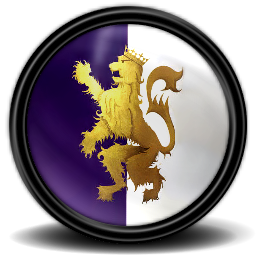
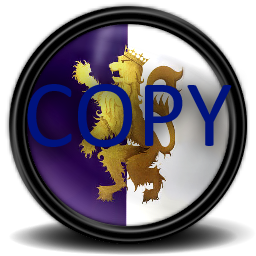
Dev-phase

Changed region(s): [[0.2812, 0.2812, 0.9062, 0.625], [0.0938, 0.3125, 0.2812, 0.5938]]

diff --git a/src/me/eriknikli/homm/HoMM.java b/src/me/eriknikli/homm/HoMM.java
@@ -3,9 +3,12 @@ package me.eriknikli.homm;
 import me.eriknikli.homm.scenes.GameScene;
 import me.eriknikli.homm.scenes.Scene;
 import me.eriknikli.homm.utils.LaunchParameter;
+import me.eriknikli.homm.utils.Log;
 import me.eriknikli.homm.utils.Utils;
 
+import javax.imageio.ImageIO;
 import javax.swing.*;
+import java.util.Objects;
 
 /**
  * A játék class-e, itt található a main függvény is
@@ -105,9 +108,14 @@ public class HoMM extends JFrame {
     }
 
     /**
-     * Beállítja a frame címét, méretét, stb...
+     * Beállítja a frame címét, ikonját, méretét, stb...
      */
     public void initFrame() {
+        try {
+            setIconImage(ImageIO.read(Objects.requireNonNull(getClass().getResourceAsStream("/icon.png"))));
+        } catch (Exception e) {
+            Log.err("Az ikont nem sikerült beállítani.", e);
+        }
         setTitle("Heroes of Might and Magic - Copy");
         setBounds(params.x, params.y, params.width, params.height);
         setDefaultCloseOperation(EXIT_ON_CLOSE);
